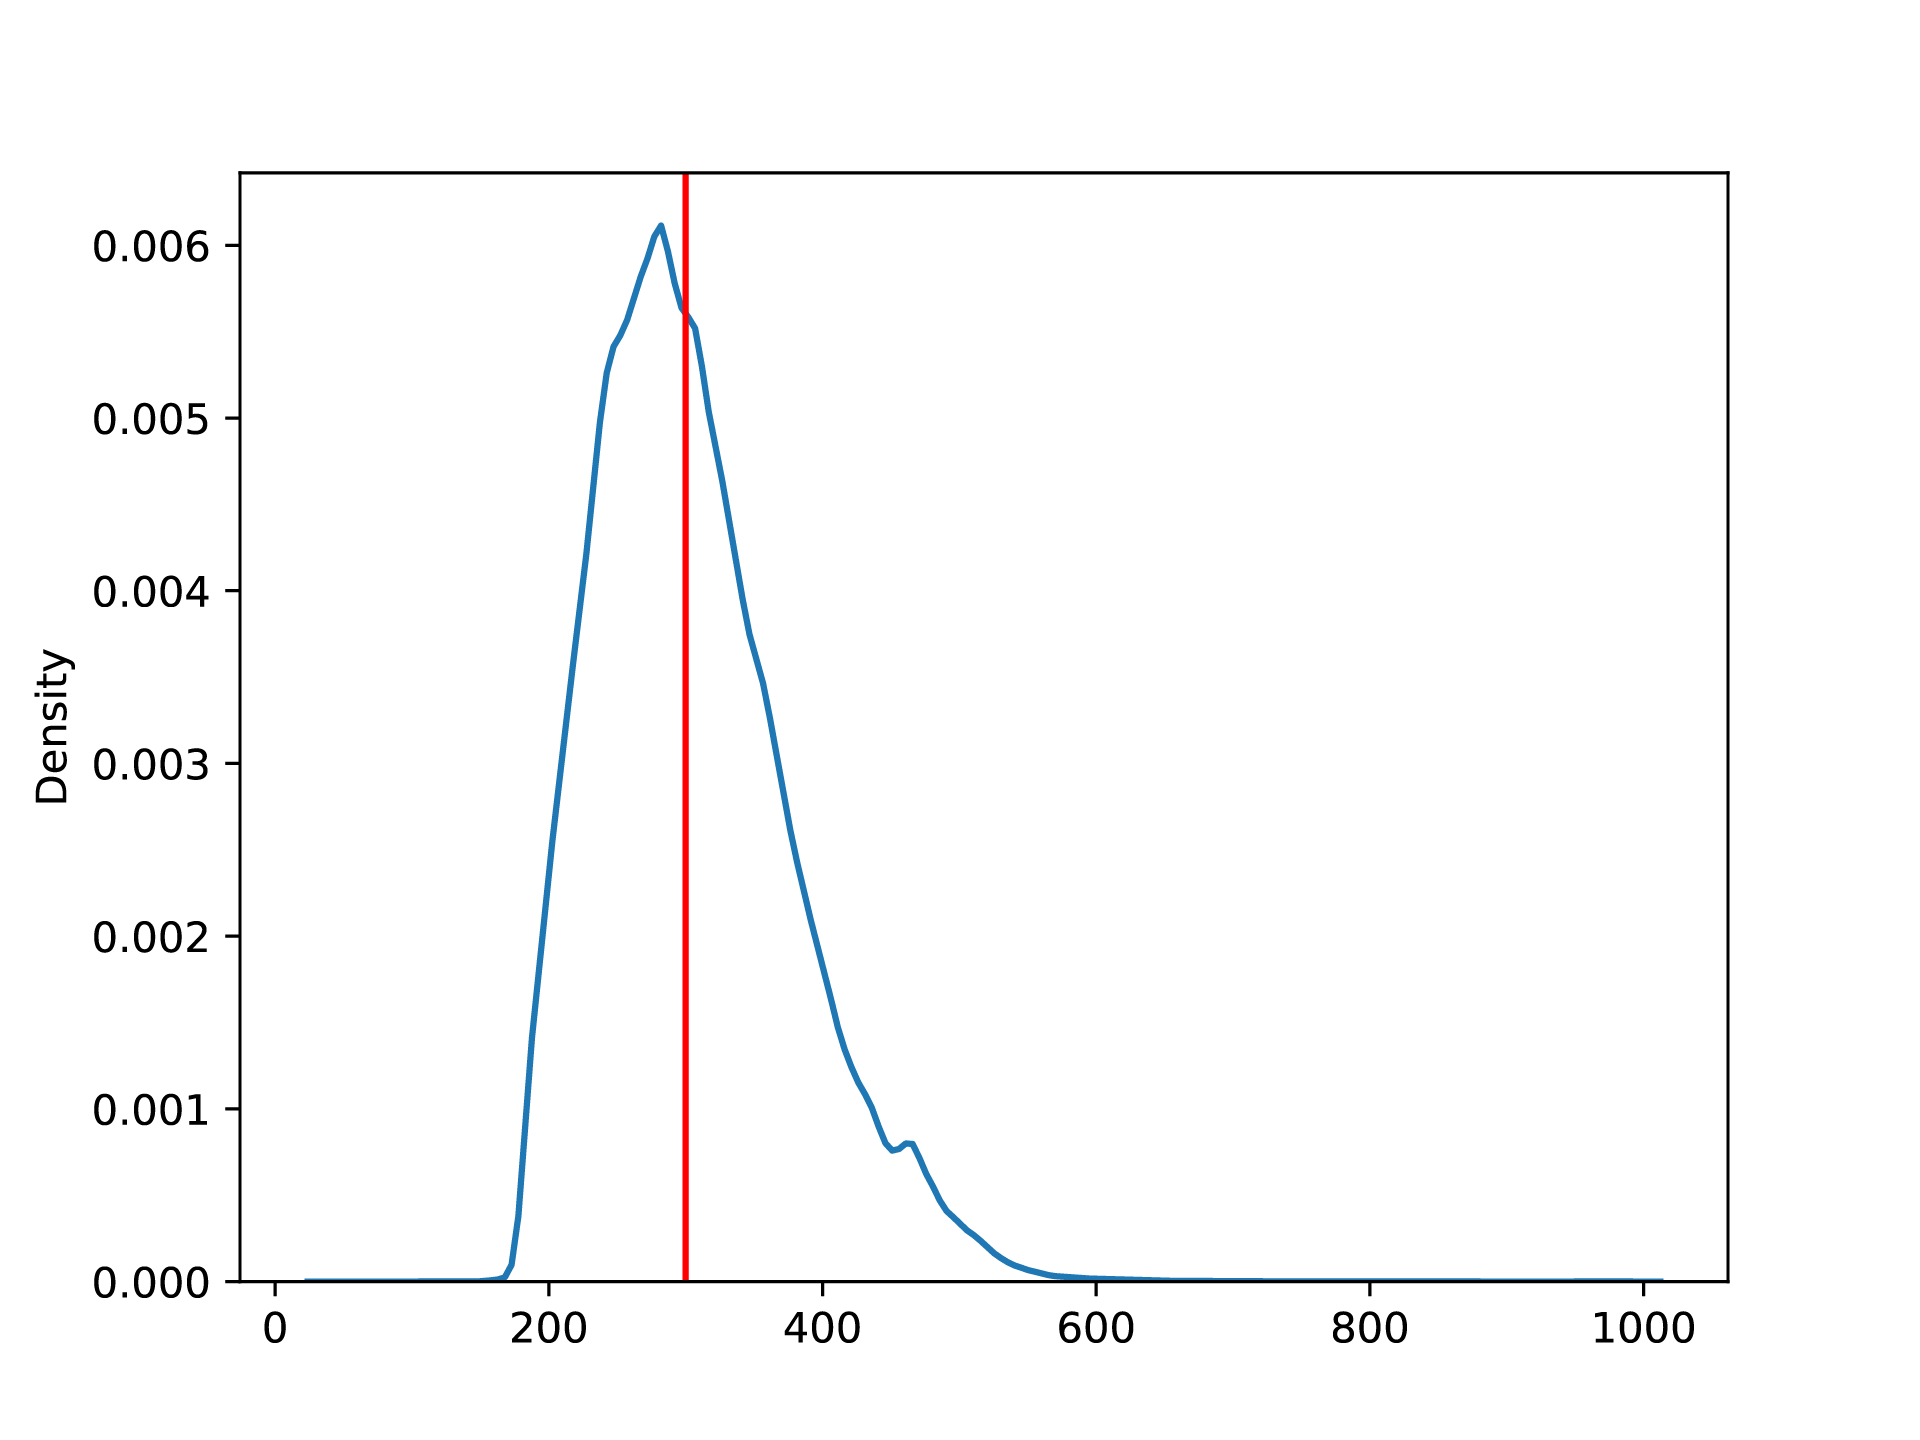
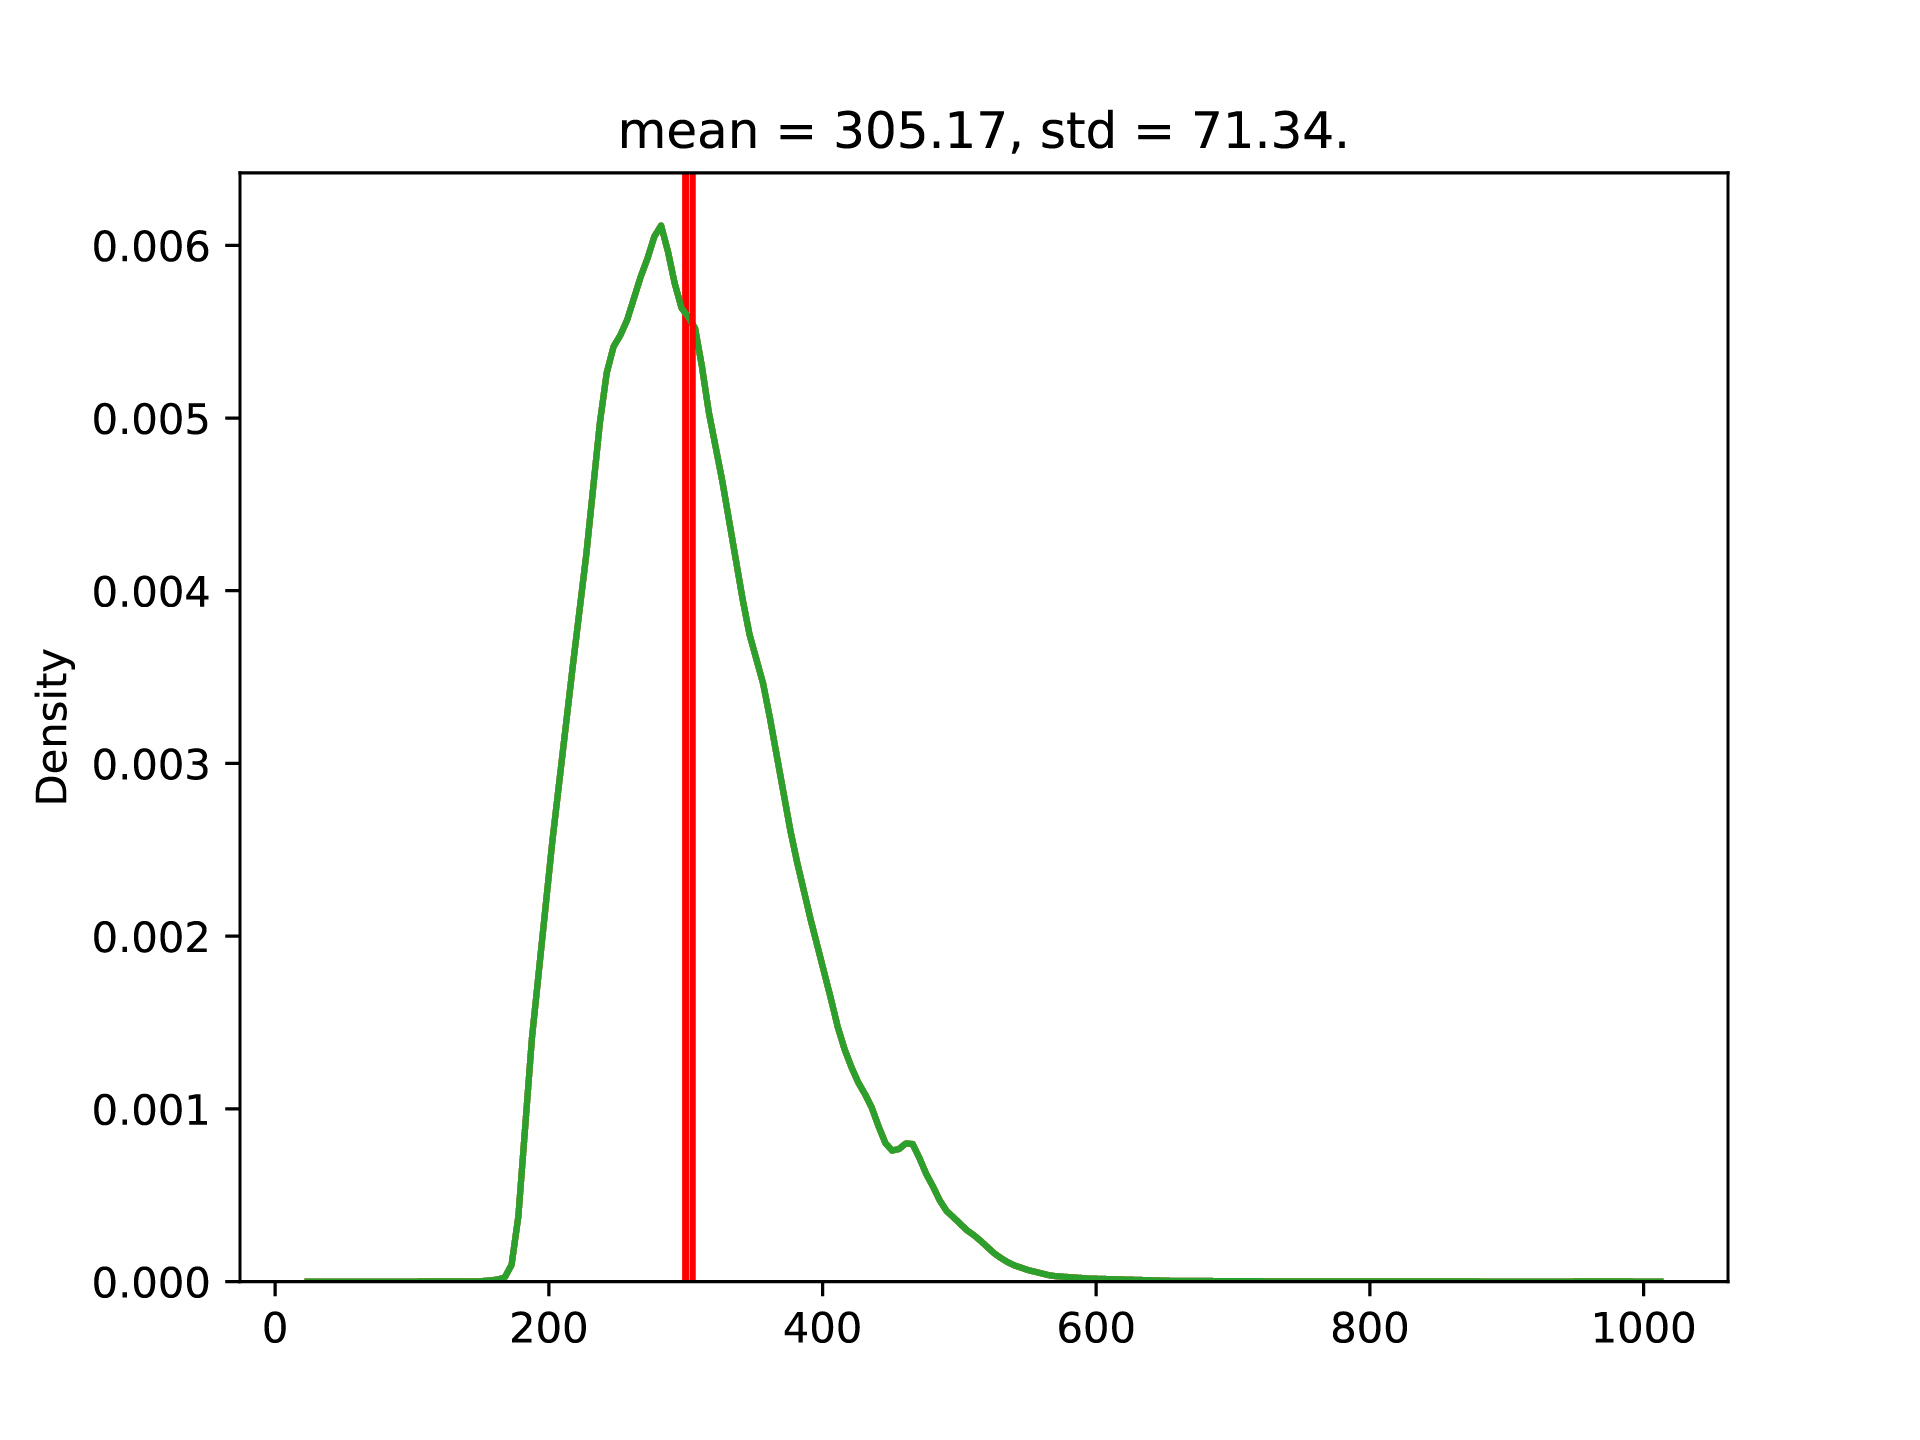
update parameters

diff --git a/cli/apamix.py b/cli/apamix.py
@@ -84,9 +84,22 @@ logger.add('apamix.log',
 @click.option(
     '--max_utr_len',
     type=int,
-    default='6000',
-    help='The maximum length of UTR. Default value is 6000.',
-    required=True
+    default=6000,
+    help='The maximum length of UTR. Default value is 6000.'
+    )
+
+@click.option(
+    '--la_dis_arr',
+    type=str,
+    default=None,
+    help='The distinct lengths of polyA lengths in the dataset. Default: np.arange(self.min_LA, self.max_LA, 10). User counld pass `[10, 30, 50, 70, 90, 110, 130]`'
+    )
+
+@click.option(
+    '--pmf_la_dis_arr',
+    type=str,
+    default=None,
+    help='The the number of reads for each distinct polyA length. .Default: Unif(min_LA, max_LA). [309912, 4107929, 802856, 518229, 188316, 263208, 101]'
     )
 
 
@@ -106,6 +119,8 @@ def apamix(
     n_max_apa,
     n_min_apa,
     max_utr_len,
+    la_dis_arr,
+    pmf_la_dis_arr,
     verbose
     ):
     if not all([bed, bam, out, cb]):
@@ -122,6 +137,15 @@ def apamix(
     res_lst = []
     cb_df = pd.read_csv(cb, names=['cb'])
     # cb_df.cb = list(map(lambda x : x.split('-')[0], cb_df.cb.values))
+
+    if la_dis_arr and pmf_la_dis_arr:
+        la_dis_arr = eval(la_dis_arr)
+        pmf_la_dis_arr = eval(pmf_la_dis_arr)
+        if not (isinstance(la_dis_arr, list) and isinstance(pmf_la_dis_arr, list)):
+            sys.exit('la_dis_arr and pmf_la_dis_arr were not list format in python.')
+    else:
+        la_dis_arr = None
+        pmf_la_dis_arr = None
 
     peak_lst = []
 
@@ -145,7 +169,7 @@ def apamix(
     res_lst = []
     try:
         for x in range(len(peak_lst)):
-            arg = [peak_lst[x], bam, cb_df, out, tag, verbose, n_max_apa, n_min_apa]
+            arg = [peak_lst[x], bam, cb_df, out, tag, verbose, n_max_apa, n_min_apa, la_dis_arr, pmf_la_dis_arr]
             res_lst.append(pool.apply_async(wraper_process, (arg,)))
 
     except KeyboardInterrupt:

diff --git a/apamix/inference.py b/apamix/inference.py
@@ -12,9 +12,8 @@ from apamix.apamix import APA
 from utils.utils import dotdict, dict_list
 from utils.bam import cigar_support, collapse_intron, check_strand
 
-
 def run(arg):
-    line, bamfile, cb_df, outdir, tag, verbose, n_max_apa, n_min_apa = arg
+    line, bamfile, cb_df, outdir, tag, verbose, n_max_apa, n_min_apa, LA_dis_arr, pmf_LA_dis_arr = arg
     region_name = line
     chrom, left_site, right_site, strand = line.split('\t')
 
@@ -205,6 +204,8 @@ def run(arg):
         r2_len_arr=apa_reads.r1_len_arr,
         polya_len_arr=apa_reads.polya_len_arr,
         pa_site_arr=apa_reads.pa_site_arr,
+        LA_dis_arr=LA_dis_arr,
+        pmf_LA_dis_arr=pmf_LA_dis_arr,
         utr_len=utr_l,
         cb=apa_reads.cb,
         umi=apa_reads.umi,

diff --git a/apamix/apamix.py b/apamix/apamix.py
@@ -76,7 +76,7 @@ class APA:
             self.pmf_s_dis_arr = np.array(pmf_LA_dis_arr)
         else:
             self.s_dis_arr = np.arange(self.min_LA, self.max_LA, 10)
-            self.pmf_LA_dis_arr = np.repeat(1 / len(self.s_dis_arr), len(self.s_dis_arr))
+            self.pmf_s_dis_arr = np.repeat(1 / len(self.s_dis_arr), len(self.s_dis_arr))
         self.pmf_s_dis_arr = self.pmf_s_dis_arr / sum(self.pmf_s_dis_arr)
         self.nround = 50
 

diff --git a/scripts/calc_insert_size.py b/scripts/calc_insert_size.py
@@ -76,7 +76,10 @@ def main(bamfile, config, outprefix):
 	oh.close()
 	points = sns.kdeplot(np.array(align_gap_list)).get_lines()[0].get_data()
 	x, y = points[:2]
-	plt.axvline(300, color='r')
+	mean_val = np.round(np.mean(np.array(align_gap_list)), 2)
+	std_val = np.round(np.std(np.array(align_gap_list)), 2)
+	plt.axvline(mean_val, color='r')
+	plt.title(f'mean = {mean_val}, std = {std_val}.')
 	plt.savefig(f"{outprefix}.pdf")
 
 			

diff --git a/README.md b/README.md
@@ -77,21 +77,28 @@ Perform the actual alternative polyadenylation events inference. If one wants to
 Usage: python main.py apamix [OPTIONS]
 
 Options:
-  --bed TEXT           The target regions (bed format) used for mix inference
-                       [required]
-  --bam TEXT           The bam file (sorted and indexed)  [required]
-  -o, --out TEXT       The output path  [required]
-  --cores INTEGER      Num (cores) of region are infering at once
-  --cb TEXT            The cell barcode file, one cb for one line.  [required]
-  --tag TEXT           The cell barcode and UMI tag, for 10X: CB,UB.
-                       [required]
-  --n_max_apa INTEGER  The maximum number of pA sites. Default value is 5.
-                       [required]
-  --n_min_apa INTEGER  The minimum number of pA sites. Default value is 1.
-                       [required]
-  -v, --verbose        Verbose mode
-  --help               Show this message and exit.
-
+  --bed TEXT             The target regions (bed format) used for mix
+                         inference  [required]
+  --bam TEXT             The bam file (sorted and indexed)  [required]
+  -o, --out TEXT         The output path  [required]
+  --cores INTEGER        Num (cores) of region are infering at once
+  --cb TEXT              The cell barcode file, one cb for one line.
+                         [required]
+  --tag TEXT             The cell barcode and UMI tag, for 10X: CB,UB.
+                         [required]
+  --n_max_apa INTEGER    The maximum number of pA sites. Default value is 5.
+                         [required]
+  --n_min_apa INTEGER    The minimum number of pA sites. Default value is 1.
+                         [required]
+  --max_utr_len INTEGER  The maximum length of UTR. Default value is 6000.
+  --la_dis_arr TEXT      The distinct lengths of polyA lengths in the dataset.
+                         Default: np.arange(self.min_LA, self.max_LA, 10).
+                         User counld pass `[10, 30, 50, 70, 90, 110, 130]`
+  --pmf_la_dis_arr TEXT  The the number of reads for each distinct polyA
+                         length. .Default: Unif(min_LA, max_LA). [309912,
+                         4107929, 802856, 518229, 188316, 263208, 101]
+  -v, --verbose          Verbose mode
+  --help                 Show this message and exit.
 ```
 
 run
